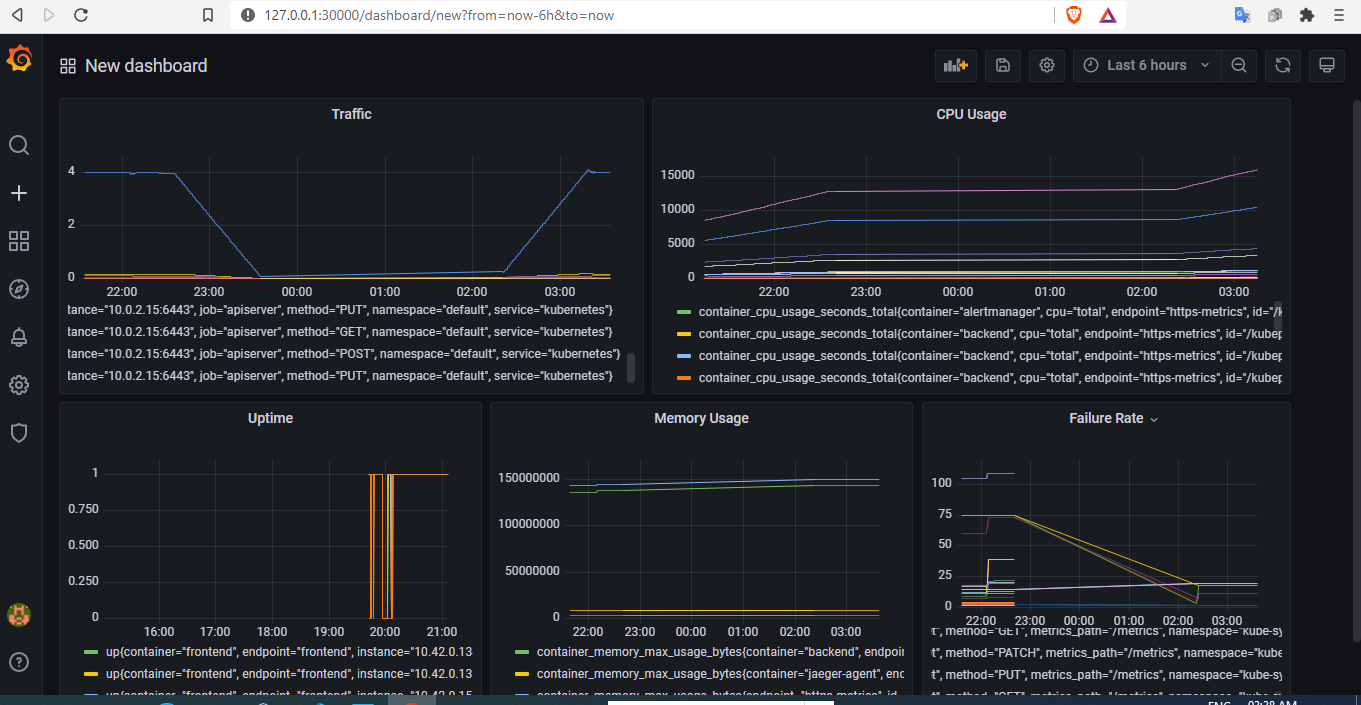
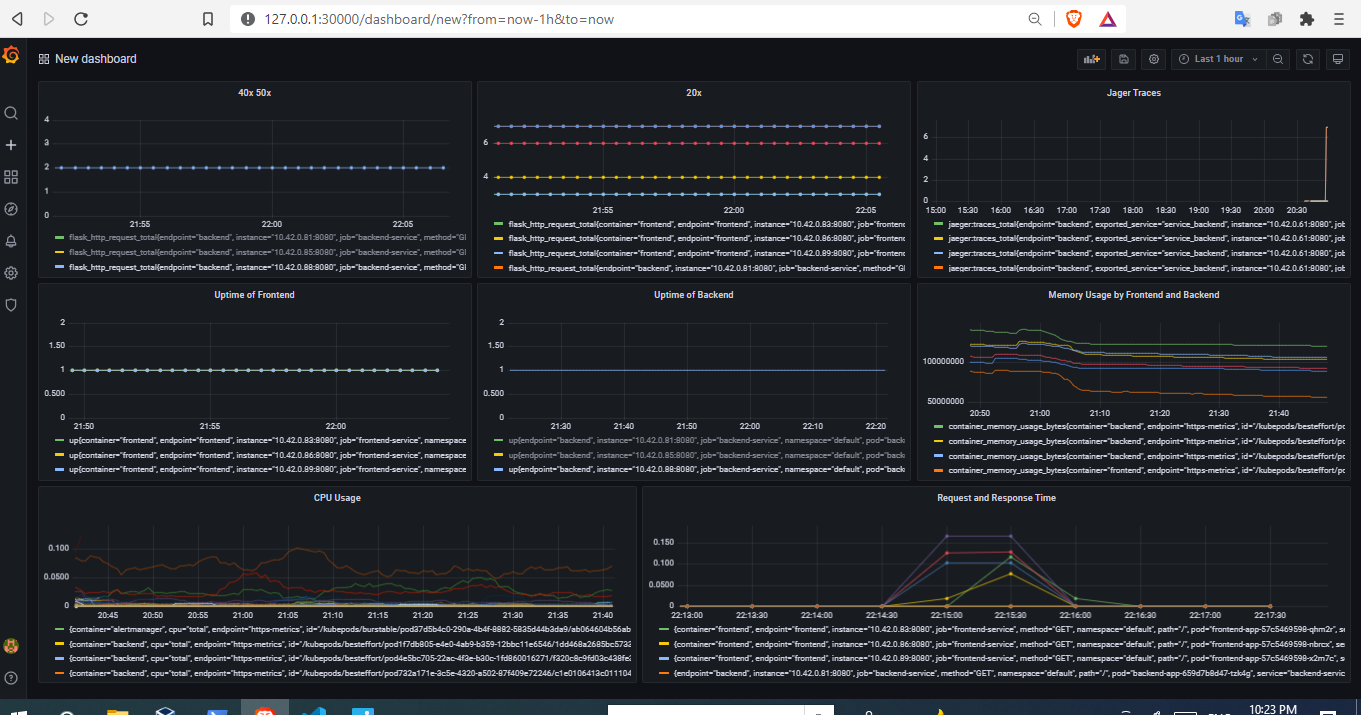
Fix errors

diff --git a/reference-app/frontend/app.py b/reference-app/frontend/app.py
@@ -13,7 +13,7 @@ config = Config(
          'param': 1},
                         'logging': True,
                         'reporter_batch_size': 1,}, 
-                        service_name="service")
+                        service_name="service_frontend")
 jaeger_tracer = config.initialize_tracer()
 tracing = FlaskTracing(jaeger_tracer, False, app)
 #jaeger

diff --git a/reference-app/trial/app.py b/reference-app/trial/app.py
@@ -35,7 +35,7 @@ def init_tracer(service):
         },
         service_name=service,
         validate=True,
-        metrics_factory=PrometheusMetricsFactory(service_name_label=service),
+        metrics_factory=PrometheusMetricsFactory(service_name_label="service_trial"),
     )
 
     # this call also sets opentracing.tracer

diff --git a/README.md b/README.md
@@ -194,7 +194,7 @@ It is important to know we have to measure certain metrics for our customer beca
 
  
 ## Report Error
-*TODO:* Using the template below, write a trouble ticket for the developers, to explain the errors that you are seeing (400, 500, latency) and to let them know the file that is causing the issue also include a screenshot of the tracer span to demonstrate how we can user a tracer to locate errors easily.
+Using the template below, write a trouble ticket for the developers, to explain the errors that you are seeing (400, 500, latency) and to let them know the file that is causing the issue also include a screenshot of the tracer span to demonstrate how we can user a tracer to locate errors easily.
 
 TROUBLE TICKET
 
@@ -222,6 +222,7 @@ Now that we have our SLIs and SLOs, create a list of 2-3 KPIs to accurately meas
 2. Resources usage of application such as CPU, Memory and Disk
 3. Request and response of the application 
 4. Failure rate of the requests 
+5. Distributed tracing
 
 Final Dashboard
 
@@ -229,10 +230,19 @@ Final Dashboard
 
 Create a Dashboard containing graphs that capture all the metrics of your KPIs and adequately representing your SLIs and SLOs. Include a screenshot of the dashboard here, and write a text description of what graphs are represented in the dashboard.
 
-1. Application uptime should be watched whether the app in the cluster running proper or not.
-2. Some container or service may use resource such as memory or cpu so that resource usage need to watch.
-3. It is important to keep an eye on request and response of the application
-4. Failure rate is needed to calculate the buffer for the gap between SLO and SLI.
+
+1. Uptime of  application
+  * Frontend and Backend uptime to watch the status of applications
+2. Resources Usage of application
+  * CPU Usage
+  * Memory Usage
+3. Request and Reponse of application
+  * Application request and response time
+  * 2.* status of responses
+4. Failure Rate
+  * 4.* 0r 5.* status of response
+5. Distributed Tracing
+  * jaeger tracing total for frontend and backend
 
 
   
